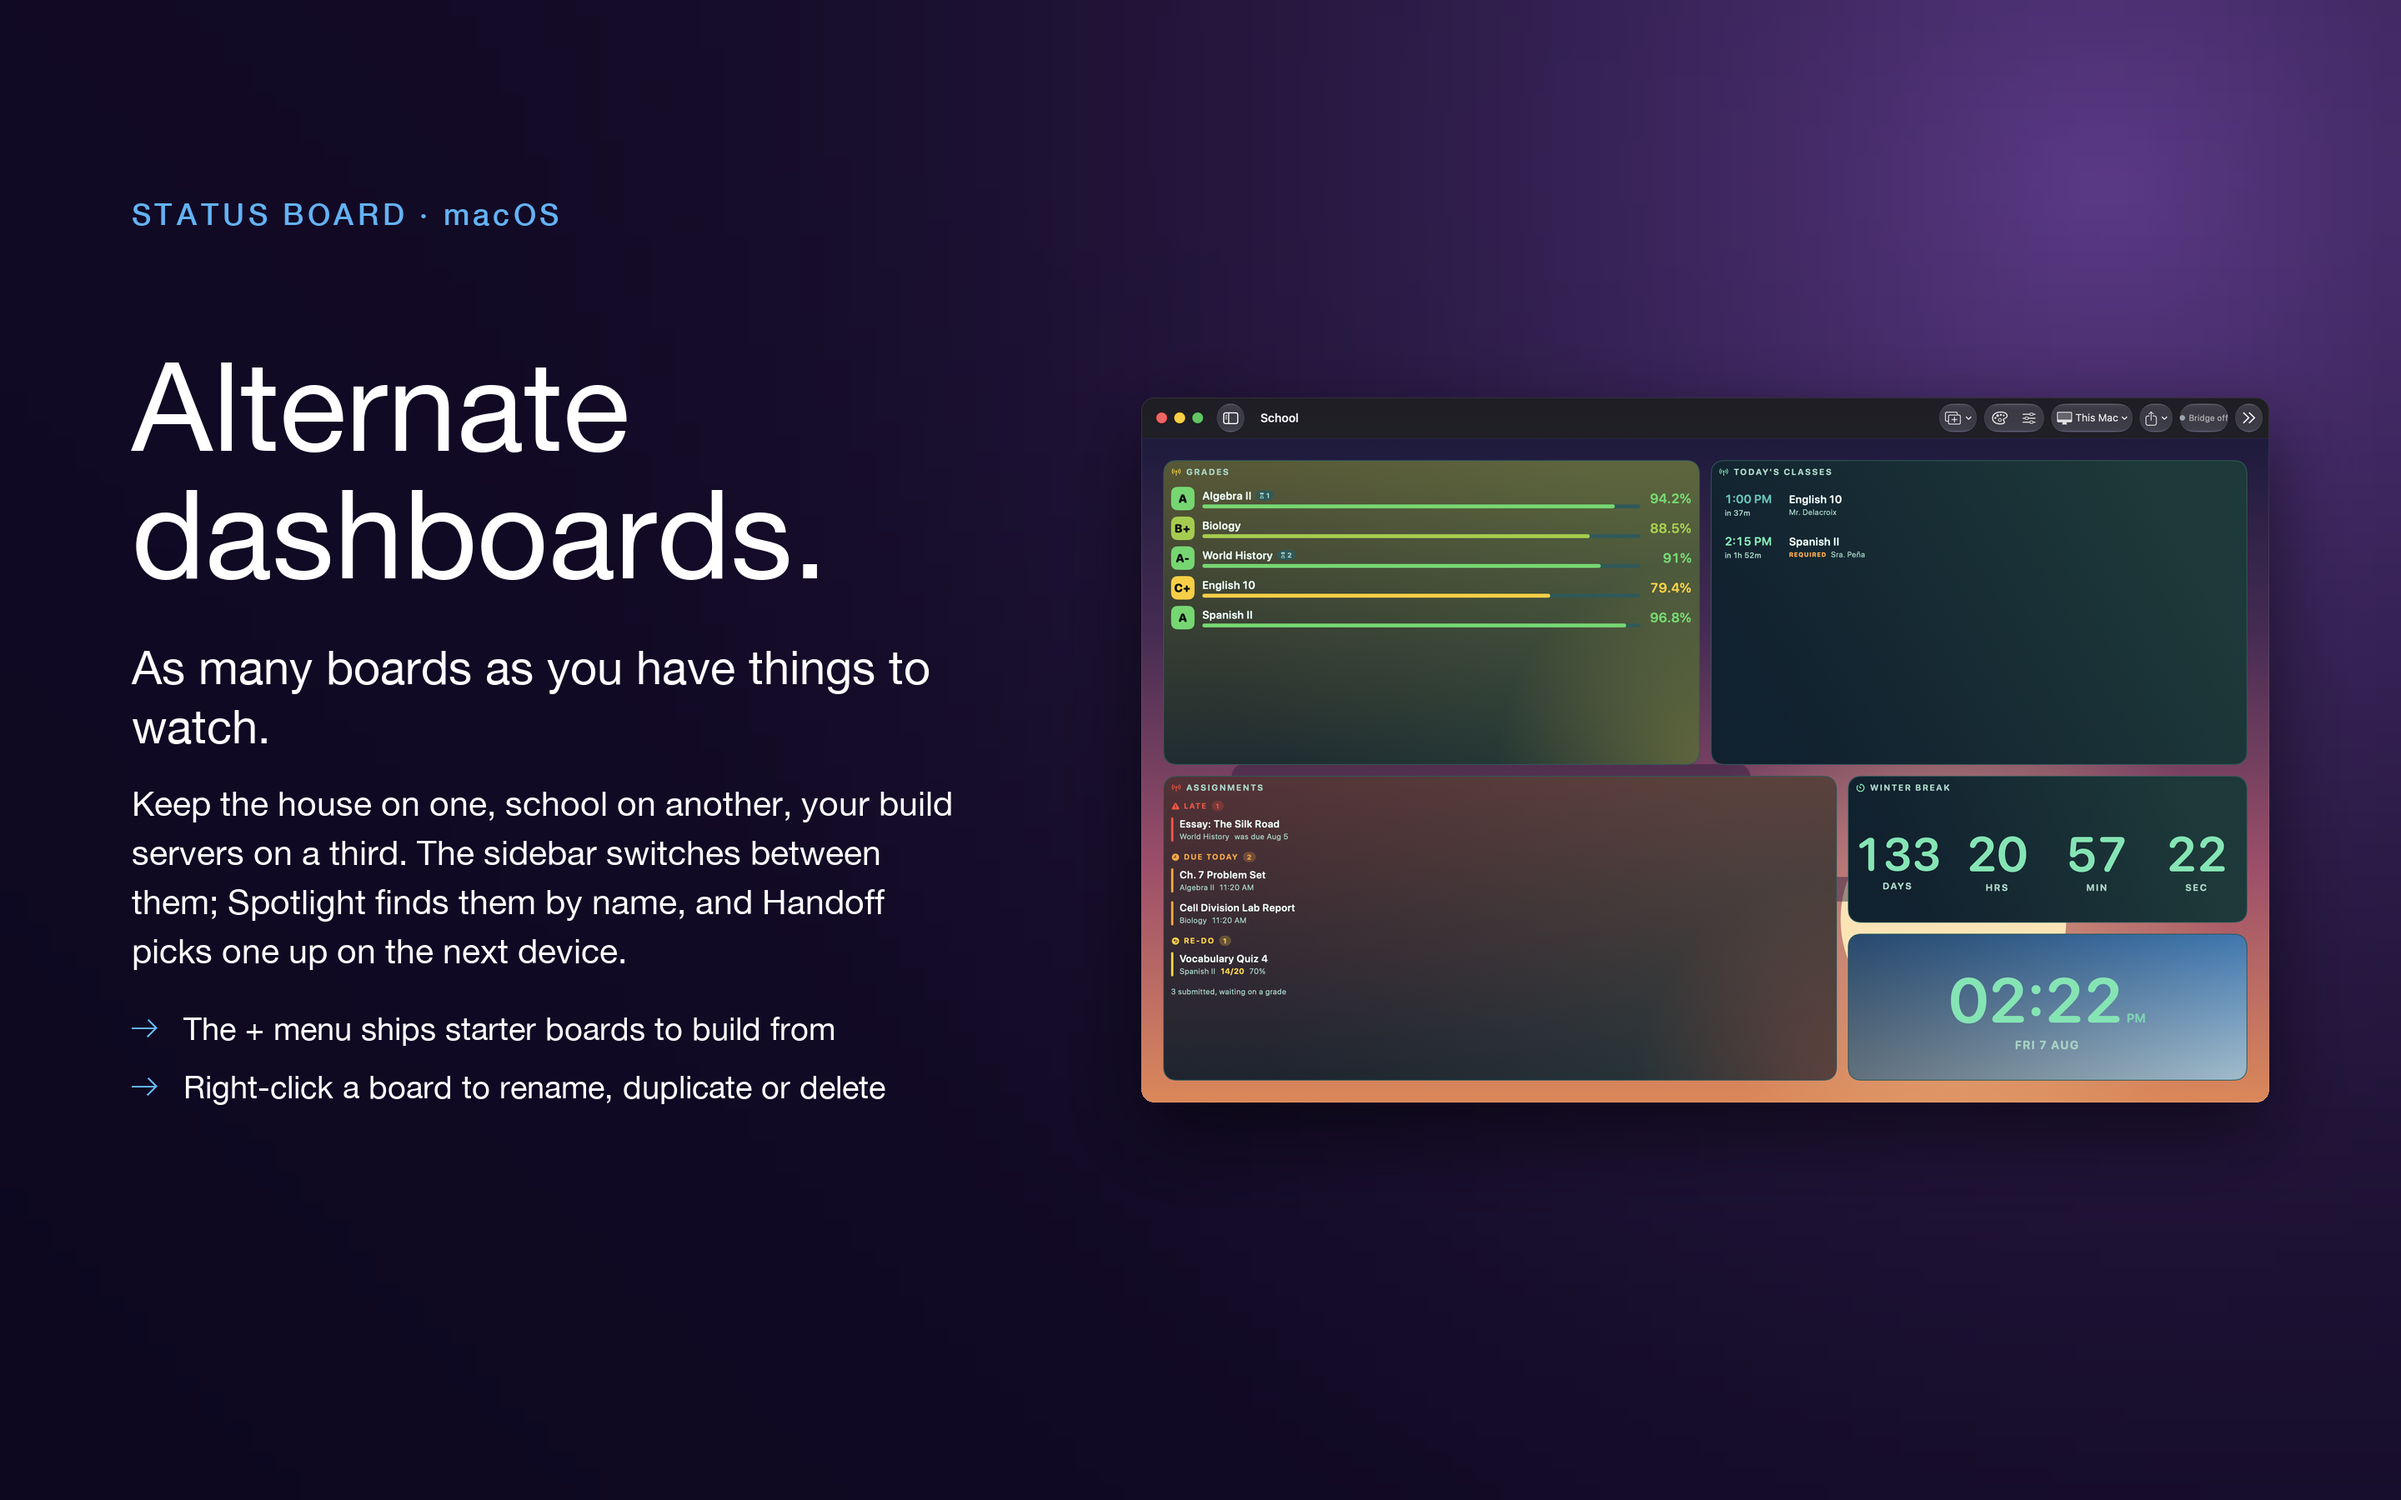
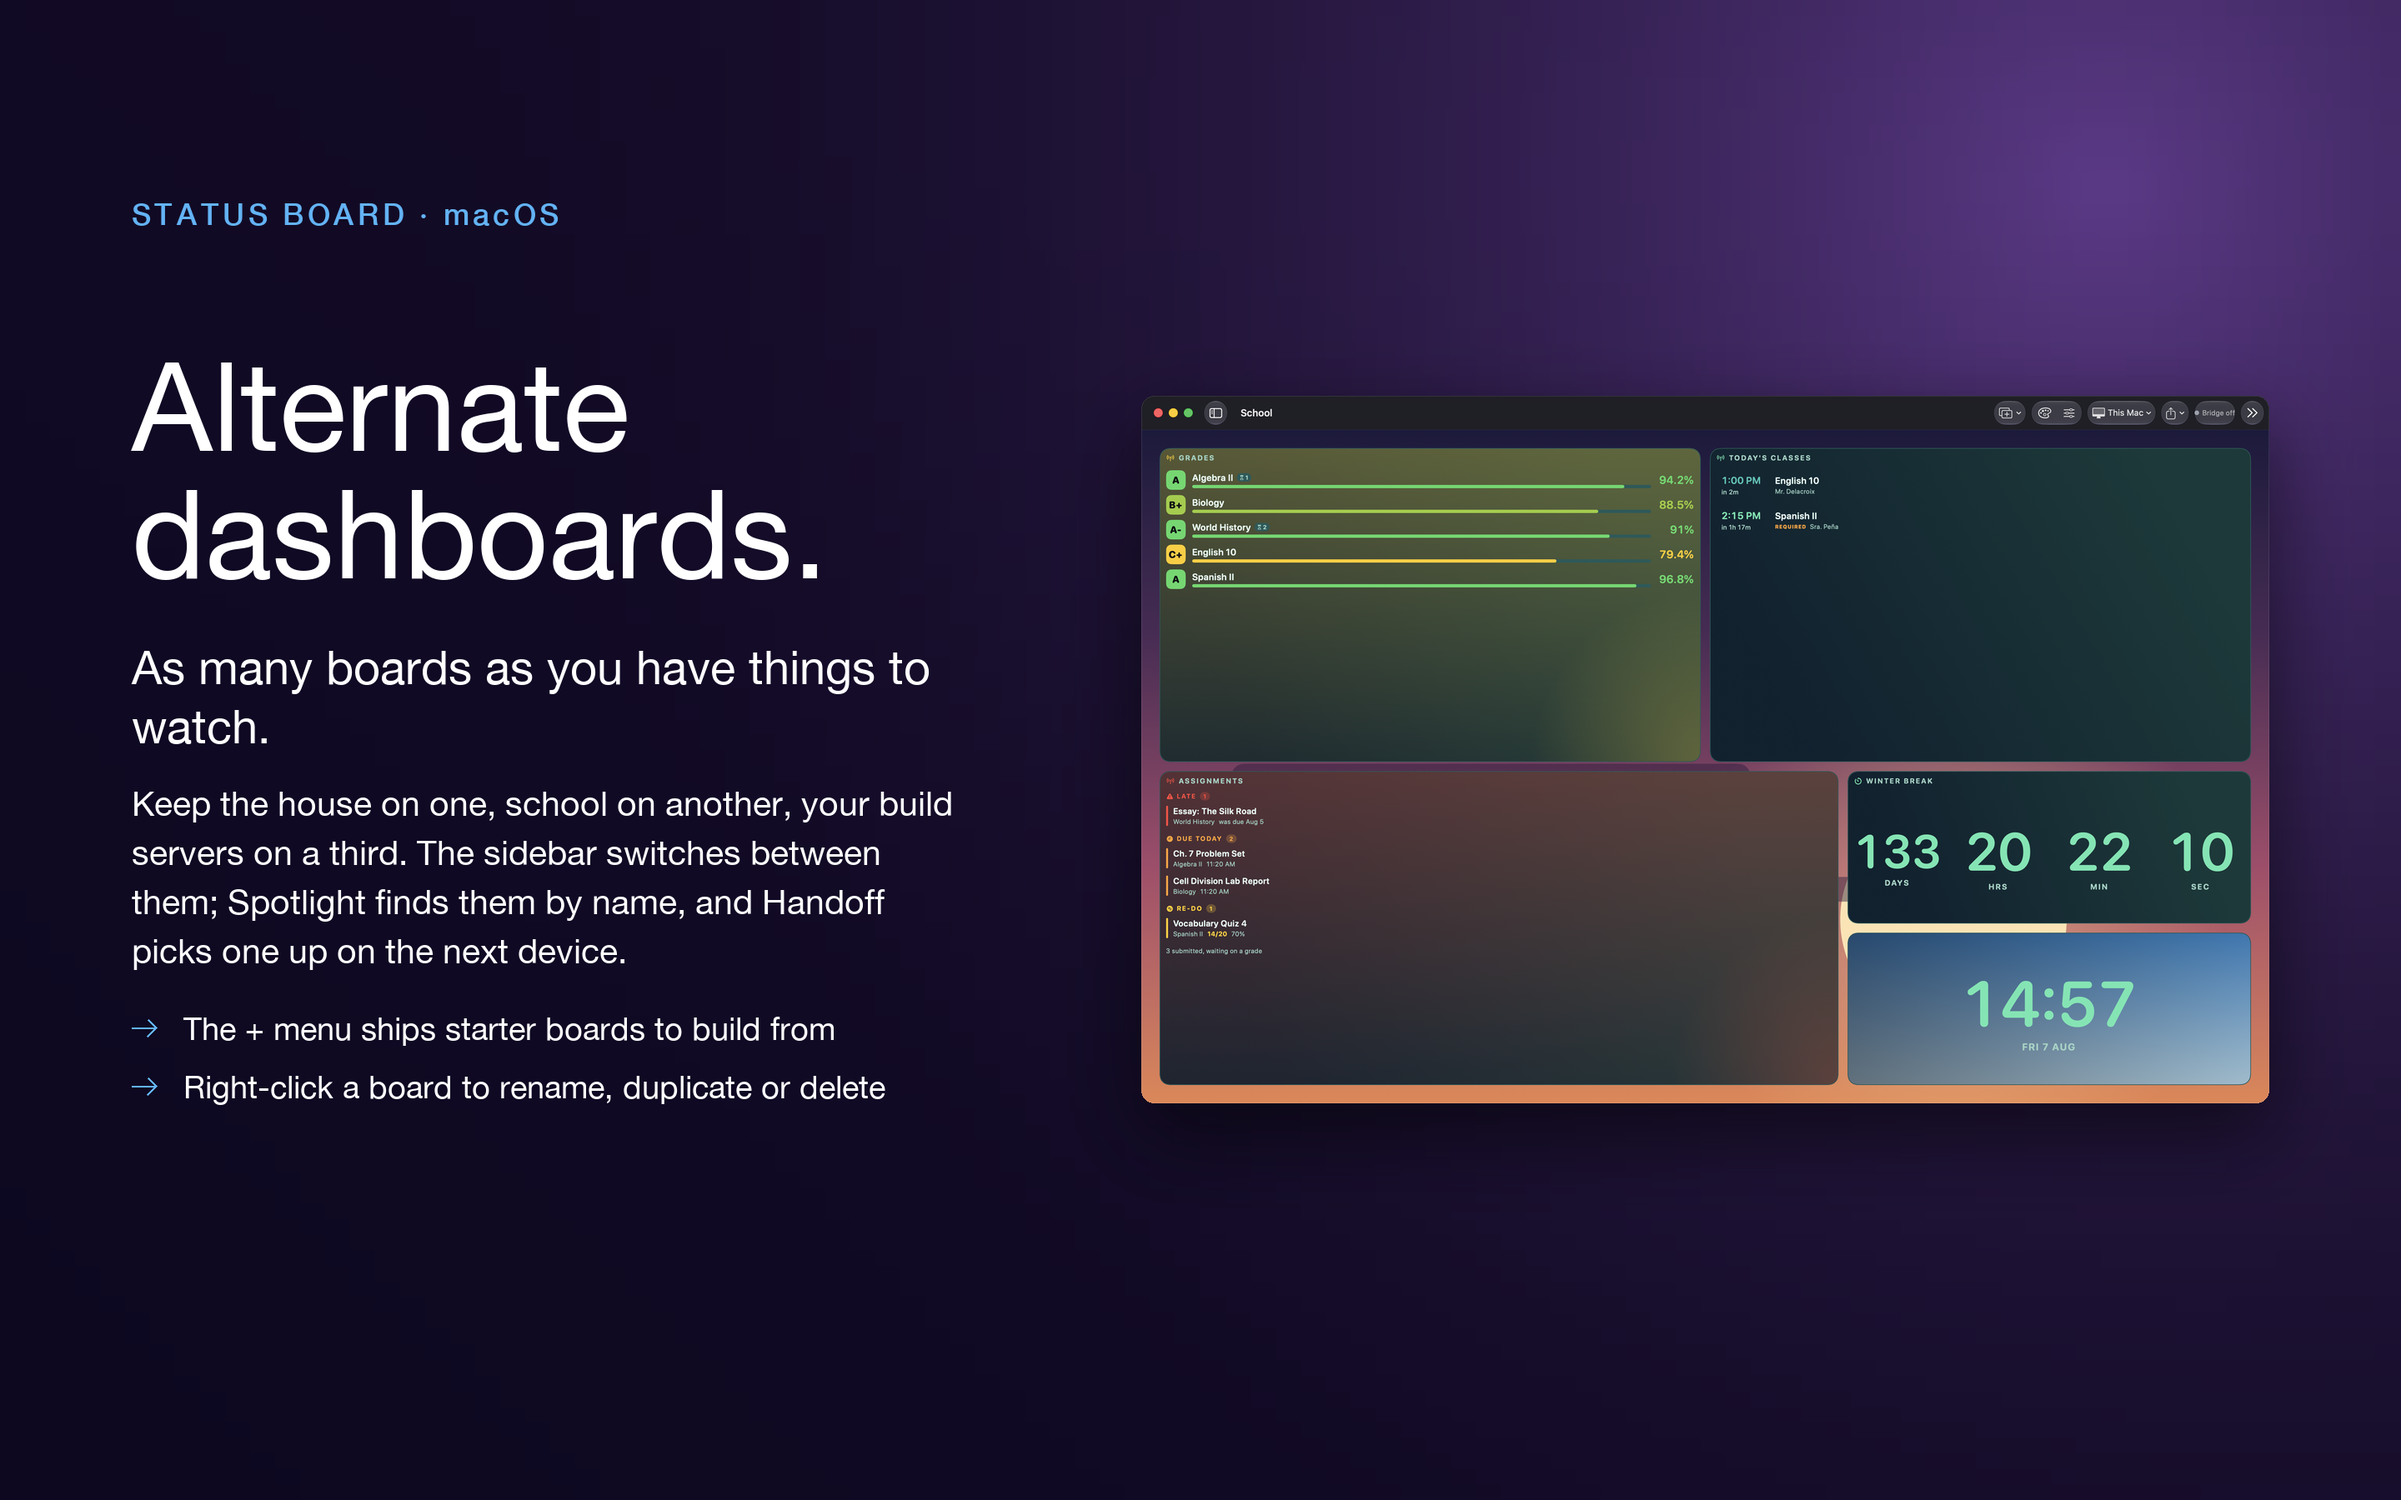
Scope the Mac screenshot capture to the build it launched
window_bounds matched on the app's display name alone, and a released copy
in /Applications shares this build's name *and* its bundle id, so the
capture could just as easily have photographed real dashboards as the demo
boards the pipeline seeds. It now takes an optional pid and capture_mac
passes the one it just opened.

It also stopped pinning the window to 1440x900. The frame is autosaved per
bundle id, so a dev build inherits whatever the release copy was last left
at and the old size check silently matched nothing; the composer scales the
capture into a fixed-width bezel regardless. Mac frames recaptured against
the current build, which also settles the clock face they show.

diff --git a/Scripts/screenshots/window_bounds.swift b/Scripts/screenshots/window_bounds.swift
@@ -10,7 +10,12 @@
 import CoreGraphics
 import Foundation
 
+// An optional pid narrows the match to one process. That matters here: the
+// release app and the development build share a bundle id *and* a display
+// name, so matching on the name alone can hand back somebody's real
+// dashboards instead of the demo boards we just seeded.
 let wanted = CommandLine.arguments.count > 1 ? CommandLine.arguments[1] : "Status Board"
+let wantedPID = CommandLine.arguments.count > 2 ? Int(CommandLine.arguments[2]) : nil
 
 guard let windows = CGWindowListCopyWindowInfo([.optionOnScreenOnly, .excludeDesktopElements],
                                                kCGNullWindowID) as? [[String: Any]] else {
@@ -29,6 +34,7 @@ var found: [Found] = []
 for window in windows {
     let owner = window[kCGWindowOwnerName as String] as? String ?? ""
     guard owner == wanted else { continue }
+    if let wantedPID, (window[kCGWindowOwnerPID as String] as? Int) != wantedPID { continue }
     guard let bounds = window[kCGWindowBounds as String] as? [String: Any],
           let x = bounds["X"] as? Double, let y = bounds["Y"] as? Double,
           let w = bounds["Width"] as? Double, let h = bounds["Height"] as? Double,
